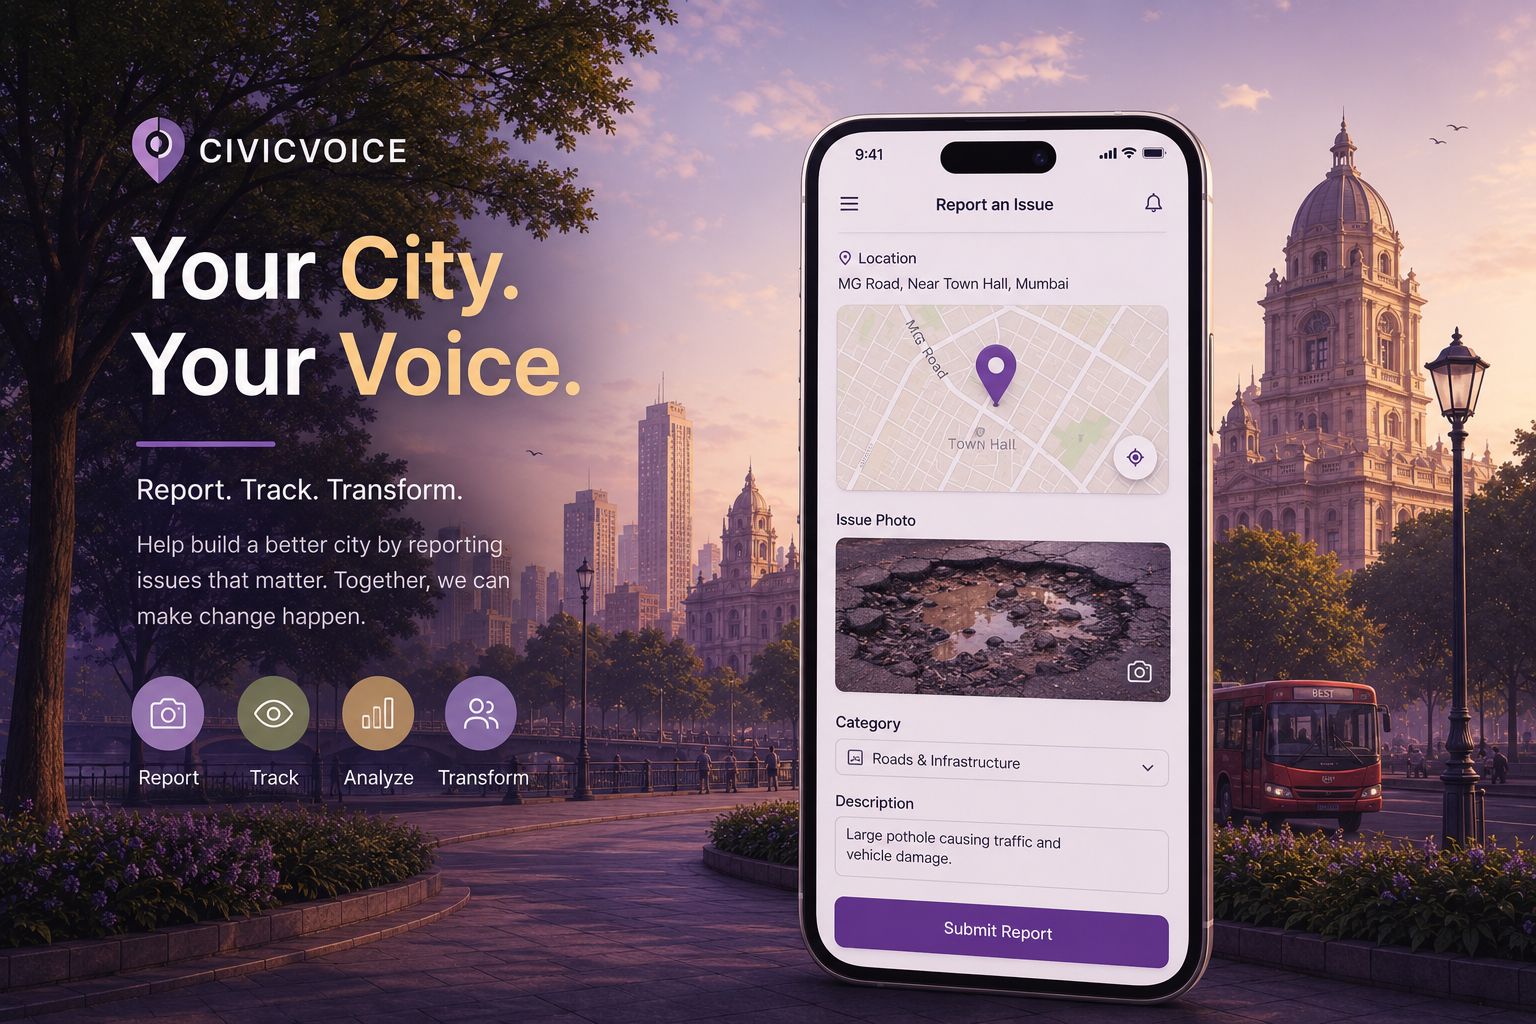
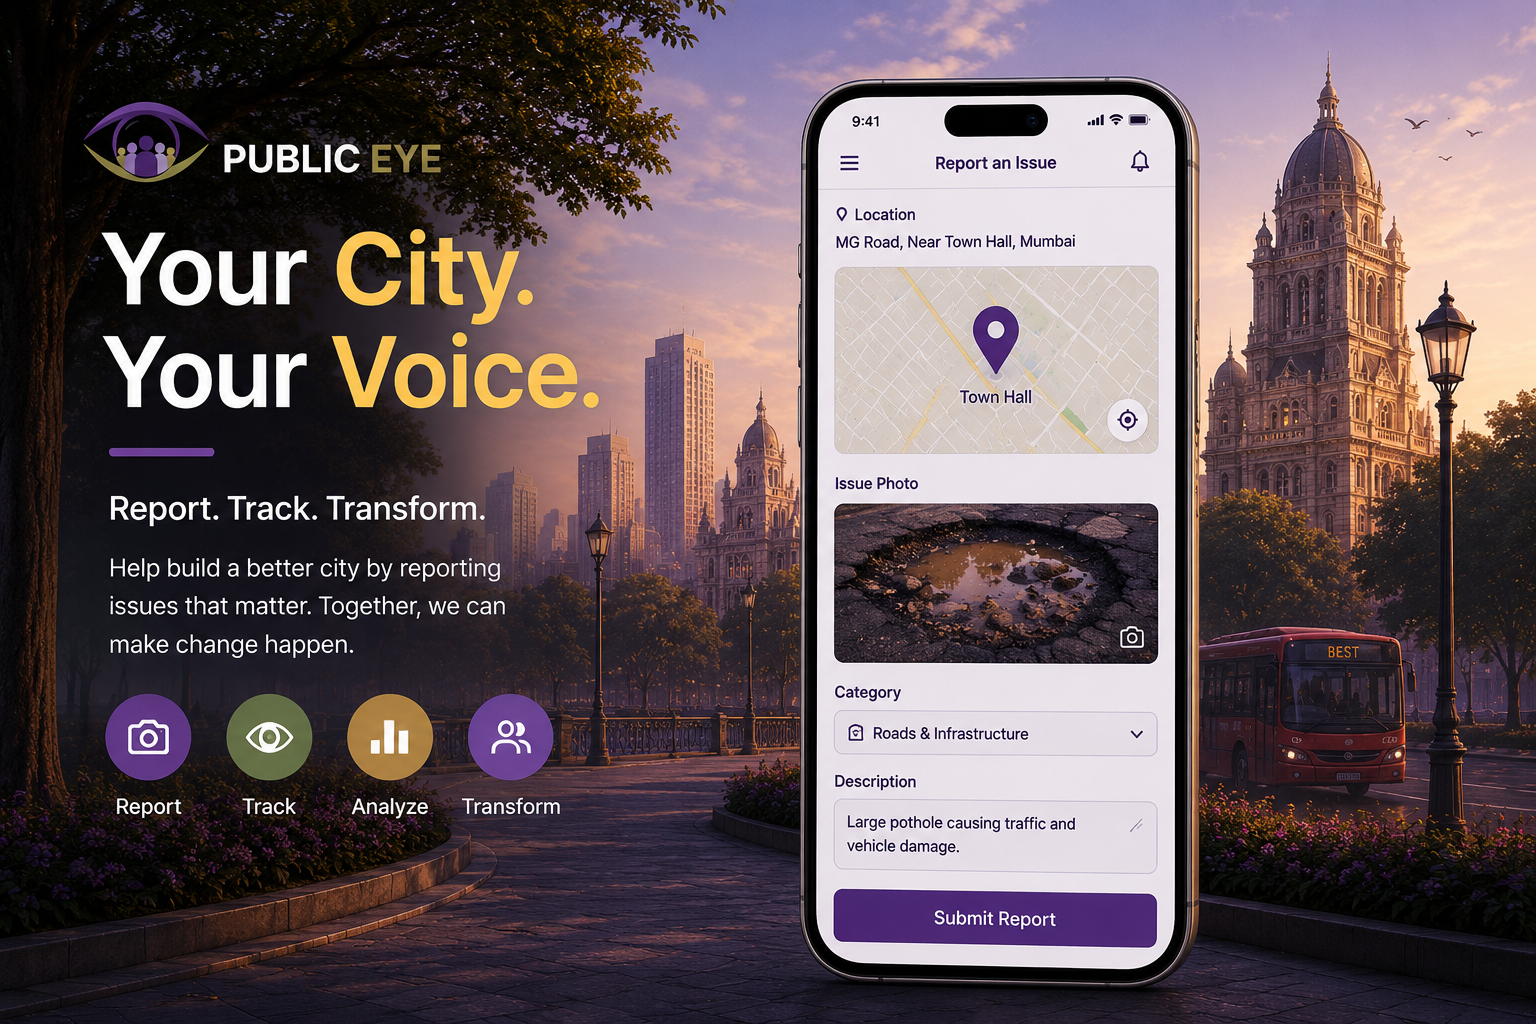
bug

diff --git a/frontend/src/pages/Landing.jsx b/frontend/src/pages/Landing.jsx
@@ -199,7 +199,7 @@ function Landing() {
               </ul>
             </div>
 
-            <div className="feature-image">
+            <div className="feature-image i1">
               <img src={report} alt="Report issue" />
             </div>
           </div>
@@ -207,7 +207,7 @@ function Landing() {
           {/* Feature 2 */}
 
           <div className="feature-row reverse">
-            <div className="feature-image">
+            <div className="feature-image i2">
               <img src={track} alt="Tracking" />
             </div>
 
@@ -228,8 +228,6 @@ function Landing() {
                 <li>✔ Resolution timeline</li>
 
                 <li>✔ Officer progress</li>
-
-                <li>✔ Community notifications</li>
               </ul>
             </div>
           </div>
@@ -286,8 +284,8 @@ function Landing() {
               <h3>Issue Resolved</h3>
 
               <p>
-                Once the issue has been resolved, citizens receive confirmation
-                and can view the completed report in the system.
+                Officers mark the issue as resolved, and the report is updated
+                with its final status for public transparency.
               </p>
             </div>
           </div>
@@ -329,22 +327,13 @@ function Landing() {
               </div>
 
               <div>
-                <h4>Interactive Heatmap</h4>
+                <h4>Status-Based Workflow</h4>
 
                 <p>
-                  Visualize issue hotspots on an interactive map to identify
-                  areas that require immediate attention.
+                Every report progresses through clearly defined stages, making it easy to monitor ongoing and completed civic issues.
                 </p>
               </div>
 
-              <div>
-                <h4>Officer Performance</h4>
-
-                <p>
-                  Evaluate officer assignments, completed reports, and response
-                  times to improve operational efficiency.
-                </p>
-              </div>
             </div>
           </div>
 

diff --git a/frontend/src/styles/landing.css b/frontend/src/styles/landing.css
@@ -926,8 +926,6 @@ a{
 
 .feature-image::before{
 
-    content:"Live Updates";
-
     position:absolute;
 
     top:35px;
@@ -947,10 +945,15 @@ a{
 
 }
 
-.feature-image::after{
+.i1::before{
+    content:"Photo Evidence";
+}
 
+.i1::after{
     content:"GPS Enabled";
+}
 
+.feature-image::after{
     position:absolute;
 
     right:-35px;
@@ -968,6 +971,14 @@ a{
 
     box-shadow:var(--shadow-md);
 
+}
+
+.i2::before{
+    content:"Community Reports";
+}
+
+.i2::after{
+    content:"Real-Time Tracking";
 }
 
 /* =========================================================

diff --git a/frontend/public/index.html b/frontend/public/index.html
@@ -2,7 +2,7 @@
 <html lang="en">
   <head>
     <meta charset="utf-8" />
-    <link rel="icon" href="%PUBLIC_URL%/favicon.ico" />
+    <link rel="icon" type="image/png" href="%PUBLIC_URL%/favicon.png" />
     <meta name="viewport" content="width=device-width, initial-scale=1" />
     <meta name="theme-color" content="#000000" />
     <meta
@@ -24,7 +24,7 @@
       work correctly both with client-side routing and a non-root public URL.
       Learn how to configure a non-root public URL by running `npm run build`.
     -->
-    <title>React App</title>
+    <title>Public Eye</title>
   </head>
   <body>
     <noscript>You need to enable JavaScript to run this app.</noscript>